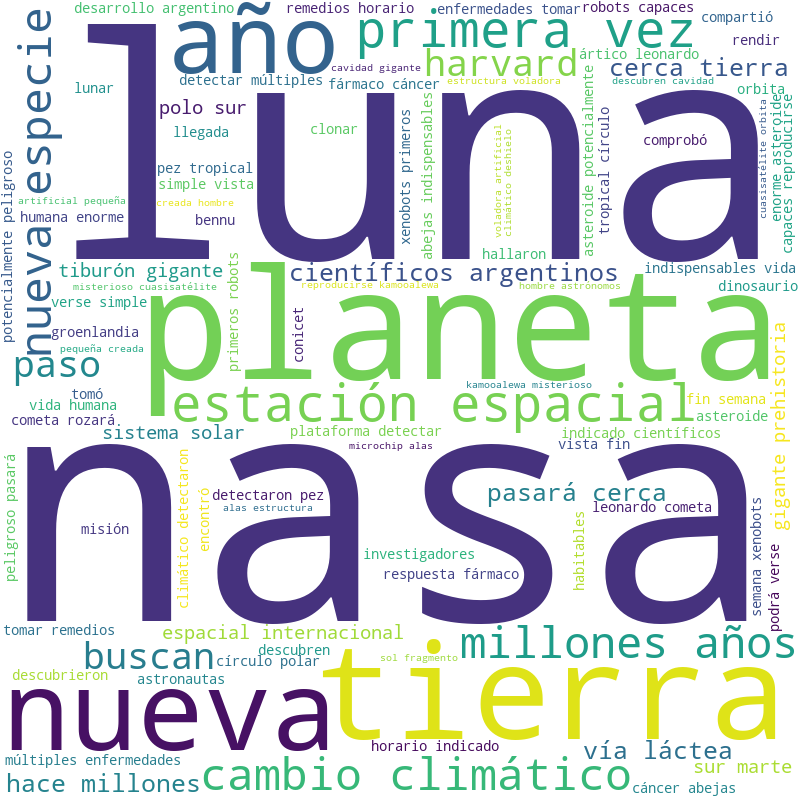
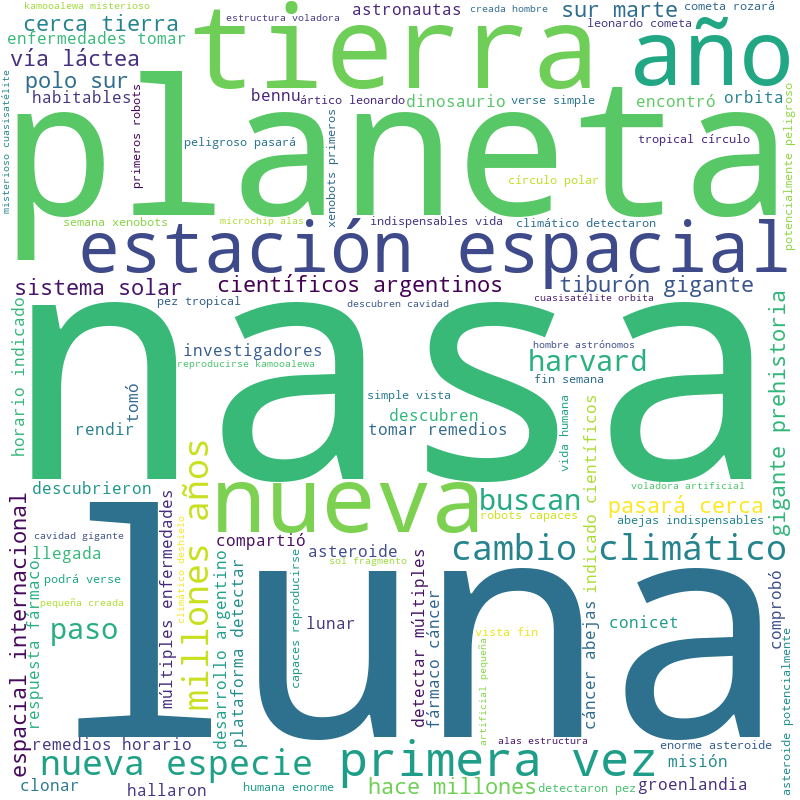
punto04 terminado

diff --git a/punto04.py b/punto04.py
@@ -3,16 +3,33 @@ from bs4 import BeautifulSoup
 from wordcloud import WordCloud
 from tp02 import modulos as procesoTexto
 import matplotlib.pyplot as plt
+import pandas
+from colorama import Fore, Style, init 
 
+init(autoreset=True)
 
 urlPrincipal = 'https://www.pagina12.com.ar'
 urlBusqueda = 'https://www.pagina12.com.ar/secciones/ciencia'
 
 def obtenerPeticionUrl(url):
+    '''
+    Método que realiza una petición Get para obtener la pagina. 
+    Arg: 
+    url: [str]
+    Return:
+    website: [requests.Response] 
+    '''
     website = requests.get(url)
     return website
 
-def obtenerTitulo(respPeticion):    
+def obtenerTitulo(respPeticion):
+    '''
+        Método que obtiene el contenido de los titulos de esa página. 
+        Arg: 
+            respPeticion: [requests.Response]
+        Return:
+           listaTitulos: [list] 
+    '''   
     if respPeticion.status_code == 200:
         pagina = BeautifulSoup(respPeticion.content, 'html.parser')
     ListaNoticias = pagina(
@@ -24,6 +41,14 @@ def obtenerTitulo(respPeticion):
     return listaTitulos
 
 def obtenerEnlaceSigPagina(respPeticion, urlP=urlPrincipal):
+    '''
+        Método que obtiene el enlace de la siguiente página.
+        Args:
+            respPeticion: [requests.Response]
+            urlP: [str] url principal 
+        Return: 
+            enlace: [list] 
+    '''
     enlace = []
     if respPeticion.status_code == 200:
         pagina = BeautifulSoup(respPeticion.content, 'html.parser')
@@ -35,18 +60,29 @@ def obtenerEnlaceSigPagina(respPeticion, urlP=urlPrincipal):
             enlace.append(e)
     return enlace
 
-def listarNoticias(url, urlP=urlPrincipal):
+def listarNoticias(url, cantidad, urlP=urlPrincipal):
+    '''
+        Método que en base a una direccion web (url) va a obtener una determinada cantidad de
+        títulos.\n
+        Args: 
+            url: [str] url donde buscar.
+            cantidad: [int] cantidad de titulos a obtener.
+            urlP: [str] url prinipal en caso que se tenga un paginador.
+        Return:
+           listaNoticias: [list] lista con los títulos obtenidos. 
+    '''
     cont = 0
     listaNoticias = []
     web = obtenerPeticionUrl(url)
     enlace= ''
-    while cont <= 100:
+    while cont <= cantidad:
         if cont == 0:
+            print(url)
             listaNoticias.extend(obtenerTitulo(web))
             enlace = obtenerEnlaceSigPagina(web)[0]
-            print(enlace)            
+            # print(enlace)            
         else:
-            print('sig pag',enlace)
+            print('sig pag ->',enlace)
             pagina = obtenerPeticionUrl(enlace)
             if pagina.status_code == 200:
                 print(pagina.status_code)
@@ -55,42 +91,51 @@ def listarNoticias(url, urlP=urlPrincipal):
         cont=len(listaNoticias)
     return listaNoticias
 
-# web = obtenerPeticionUrl(urlBusqueda)
-# print(web.status_code)
+def generarNubePalabras(texto):
+    '''
+        Método que genera una nube de palabras usando WordCloud, lo dibuja y lo muestra por pantalla.
+        Arg: 
+            texto: [str] 
+    '''
+    nubePalabra = WordCloud(height=800,width=800, background_color='white', max_words=100, min_font_size=5, collocation_threshold=10).generate(texto)
+    nubePalabra.to_file('nube_palabra.png')
+    # grafico
+    plt.figure(figsize=(10,8))
+    plt.imshow(nubePalabra)
+    plt.axis('off')
+    plt.tight_layout(pad=0)
+    plt.show()
+
+
+# --------------------------------- principal ------------------------------------
 lista100=[]
-listaTotal = listarNoticias(urlBusqueda)
+cantidadNoticias = 100
+listaTotal = listarNoticias(urlBusqueda, cantidadNoticias)  # urlBusqueda = 'https://www.pagina12.com.ar/secciones/ciencia'
 print(len(listaTotal))
-i = 1
 for j in range(100):
-    print(j+1,listaTotal[j])
+    print(j+1,'-',listaTotal[j])
     lista100.append(listaTotal[j])
 
-# unimos todo el texto 
+# unimos todo los títulos en un texto [str] 
 textoTitulos=''
-for t in lista100:    
-    textoTitulos += t +' '
-# print(texto12)
+for titulo in lista100:
+    textoTitulos += titulo +' '
+
 # limpiamos texto signos de puntuacion
 textoSinSignosPuntuacion = procesoTexto.eliminarSignosPuntuacion(textoTitulos)
-# print(textoSinSignosPuntuacion)
+
 # tokenizar texto
 textoTokenizado = procesoTexto.tokenizar(textoSinSignosPuntuacion)
-# print(textoTokenizado)
+
 # poner en minuscula todas las palabras
 textoEnMinuscula = procesoTexto.ponerMinuscula(textoTokenizado)
+
 # eliminiacion stopwords
 textoLimpio = procesoTexto.eliminarStopWords(textoEnMinuscula)
-# print(textoLimpio)
+
 # convertimos en texto
 textoProcesado = ' '.join(textoLimpio)
-print(textoProcesado)
+
 # generar nube de palabras
 print('generando nube de palabras ...')
-nubePalabra = WordCloud(height=800,width=800, background_color='white', max_words=100, min_font_size=5, collocation_threshold=10).generate(textoProcesado)
-nubePalabra.to_file('nube_palabra.png')
-
-plt.figure(figsize=(10,8))
-plt.imshow(nubePalabra)
-plt.axis('off')
-plt.tight_layout(pad=0)
-plt.show()
+generarNubePalabras(textoProcesado)
